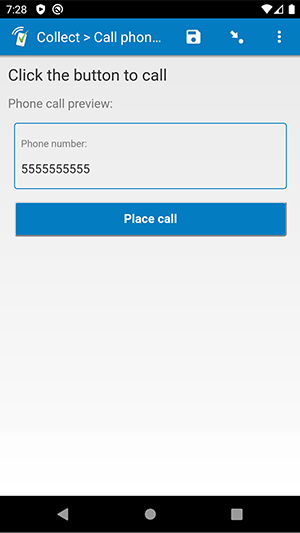
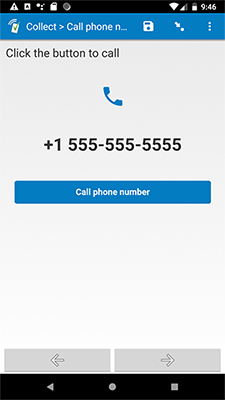
Update UI

diff --git a/source/template.html b/source/template.html
@@ -8,29 +8,28 @@
 <!-- If there is audio specified in the media:audio column, show it here -->
 {{#MEDIAAUDIO}}
 <audio controls>
-  <source src="{{MEDIAAUDIO}}">
-  Your browser does not support the audio element.
+   <source src="{{MEDIAAUDIO}}">
+   Your browser does not support the audio element.
 </audio>
 {{/MEDIAAUDIO}}
 
 <!-- If there is a video specified in the media:video column, show it here -->
 {{#MEDIAVIDEO}}
 <video width="100%" height="*" controls>
-  <source src="{{MEDIAVIDEO}}">
-  Your browser does not support the video tag.
+   <source src="{{MEDIAVIDEO}}">
+   Your browser does not support the video tag.
 </video>
 {{/MEDIAVIDEO}} 
 
 <div class="hint default-hint-text-size">{{{HINT}}}</div>
 
-<p class="text-muted">Phone call preview:</p>
+<div class="container center" style="margin-top: 2rem;">
+   <svg class="icon" height="36" width="36"><use xlink:href="#icon-make-call" /></svg>
+</div>
 
 <div class="container">
-   <div class="phone-call-preview-container">
-      <p>
-         <small class="text-muted">Phone number:</small>
-         <div id="phone-preview-number-container"></div>
-      </p>
+   <div class="phone-call-preview-container center">
+      <div id="phone-preview-number-container"></div>
    </div>
 </div>
 
@@ -39,3 +38,10 @@
 </div>
 
 <div id="status-container"></div>
+
+<!-- Below are the definitions of the SVG icons that we have used in the rest of the template. -->
+<svg xmlns="http://www.w3.org/2000/svg" style="display: none;">
+   <symbol id="icon-make-call" viewBox="0 0 24 24">
+      <path d="M5.00055556,10.3288889 C6.84055556,13.945 9.805,16.8966667 13.4211111,18.7494444 L16.2322222,15.9383333 C16.5772222,15.5933333 17.0883333,15.4783333 17.5355556,15.6316667 C18.9666667,16.1044444 20.5127778,16.36 22.0972222,16.36 C22.8,16.36 23.375,16.935 23.375,17.6377778 L23.375,22.0972222 C23.375,22.8 22.8,23.375 22.0972222,23.375 C10.0988889,23.375 0.375,13.6511111 0.375,1.65277778 C0.375,0.95 0.95,0.375 1.65277778,0.375 L6.125,0.375 C6.82777778,0.375 7.40277778,0.95 7.40277778,1.65277778 C7.40277778,3.25 7.65833333,4.78333333 8.13111111,6.21444444 C8.27166667,6.66166667 8.16944444,7.16 7.81166667,7.51777778 L5.00055556,10.3288889 Z" id="icon/communication/call_24px" fill-rule="nonzero" fill="#047CC2"></path>
+   </symbol>
+</svg>

diff --git a/source/style.css b/source/style.css
@@ -1,11 +1,34 @@
-.phone-call-preview-container {
-	border: 1px solid #047CC2;
-	border-radius: 4px;
-	padding: 0 .5rem;
-	box-sizing: border-box;
+/* START global styles */
+.hidden {
+	display: none;
+}
+.text-muted {
+	color: rgba(0,0,0,.5);
+}
+.noselect {
+  -webkit-touch-callout: none; /* iOS Safari */
+    -webkit-user-select: none; /* Safari */
+     -khtml-user-select: none; /* Konqueror HTML */
+       -moz-user-select: none; /* Old versions of Firefox */
+        -ms-user-select: none; /* Internet Explorer/Edge */
+            user-select: none; /* Non-prefixed version, currently
+                                  supported by Chrome, Opera and Firefox */
 }
 .container {
-	padding: 0 .5rem;
+	padding: 1rem;
+	box-sizing: border-box;
+}
+.center {
+	text-align: center;
+	justify-content: center;
+}
+/* END global styles */
+
+.phone-call-preview-container {
+	padding: 1rem;
+	box-sizing: border-box;
+	font-size: 2rem;
+	font-weight: bold;
 }
 
 /* START button styles */
@@ -16,7 +39,6 @@ a.button {
 	background-color: #047CC2;
 	color: white;
 	font-weight: bold;
-	margin-top: 1rem;
 	width: 100%;
 	display: block;
 	box-sizing: border-box;
@@ -34,24 +56,7 @@ a.button:disabled {
 	opacity: 0.5
 }
 #status-container {
-    padding: 6px;
-    text-align: center;
+	padding: 6px;
+	text-align: center;
 }
 /* END button styles */
-
-/* START global styles */
-.hidden {
-	display: none;
-}
-.text-muted {
-	color: rgba(0,0,0,.5);
-}
-.noselect {
-  -webkit-touch-callout: none; /* iOS Safari */
-    -webkit-user-select: none; /* Safari */
-     -khtml-user-select: none; /* Konqueror HTML */
-       -moz-user-select: none; /* Old versions of Firefox */
-        -ms-user-select: none; /* Internet Explorer/Edge */
-            user-select: none; /* Non-prefixed version, currently
-                                  supported by Chrome, Opera and Firefox */
-}
